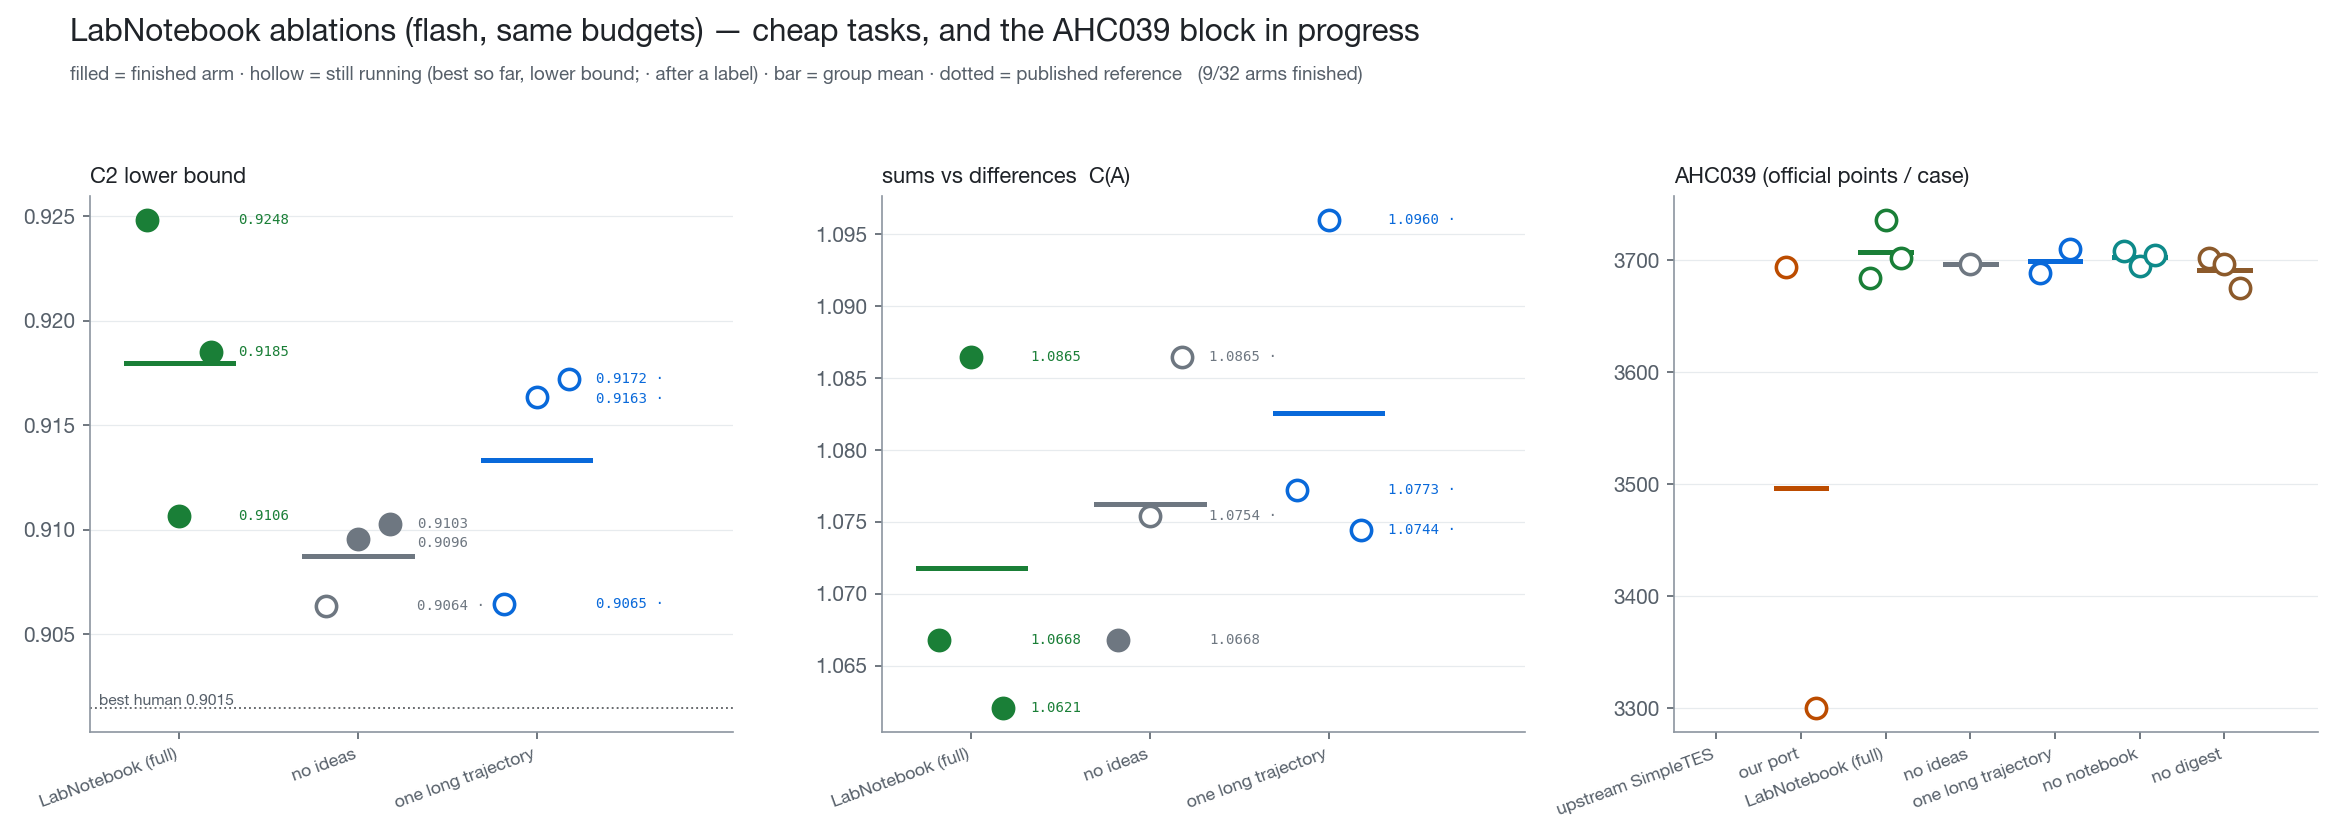
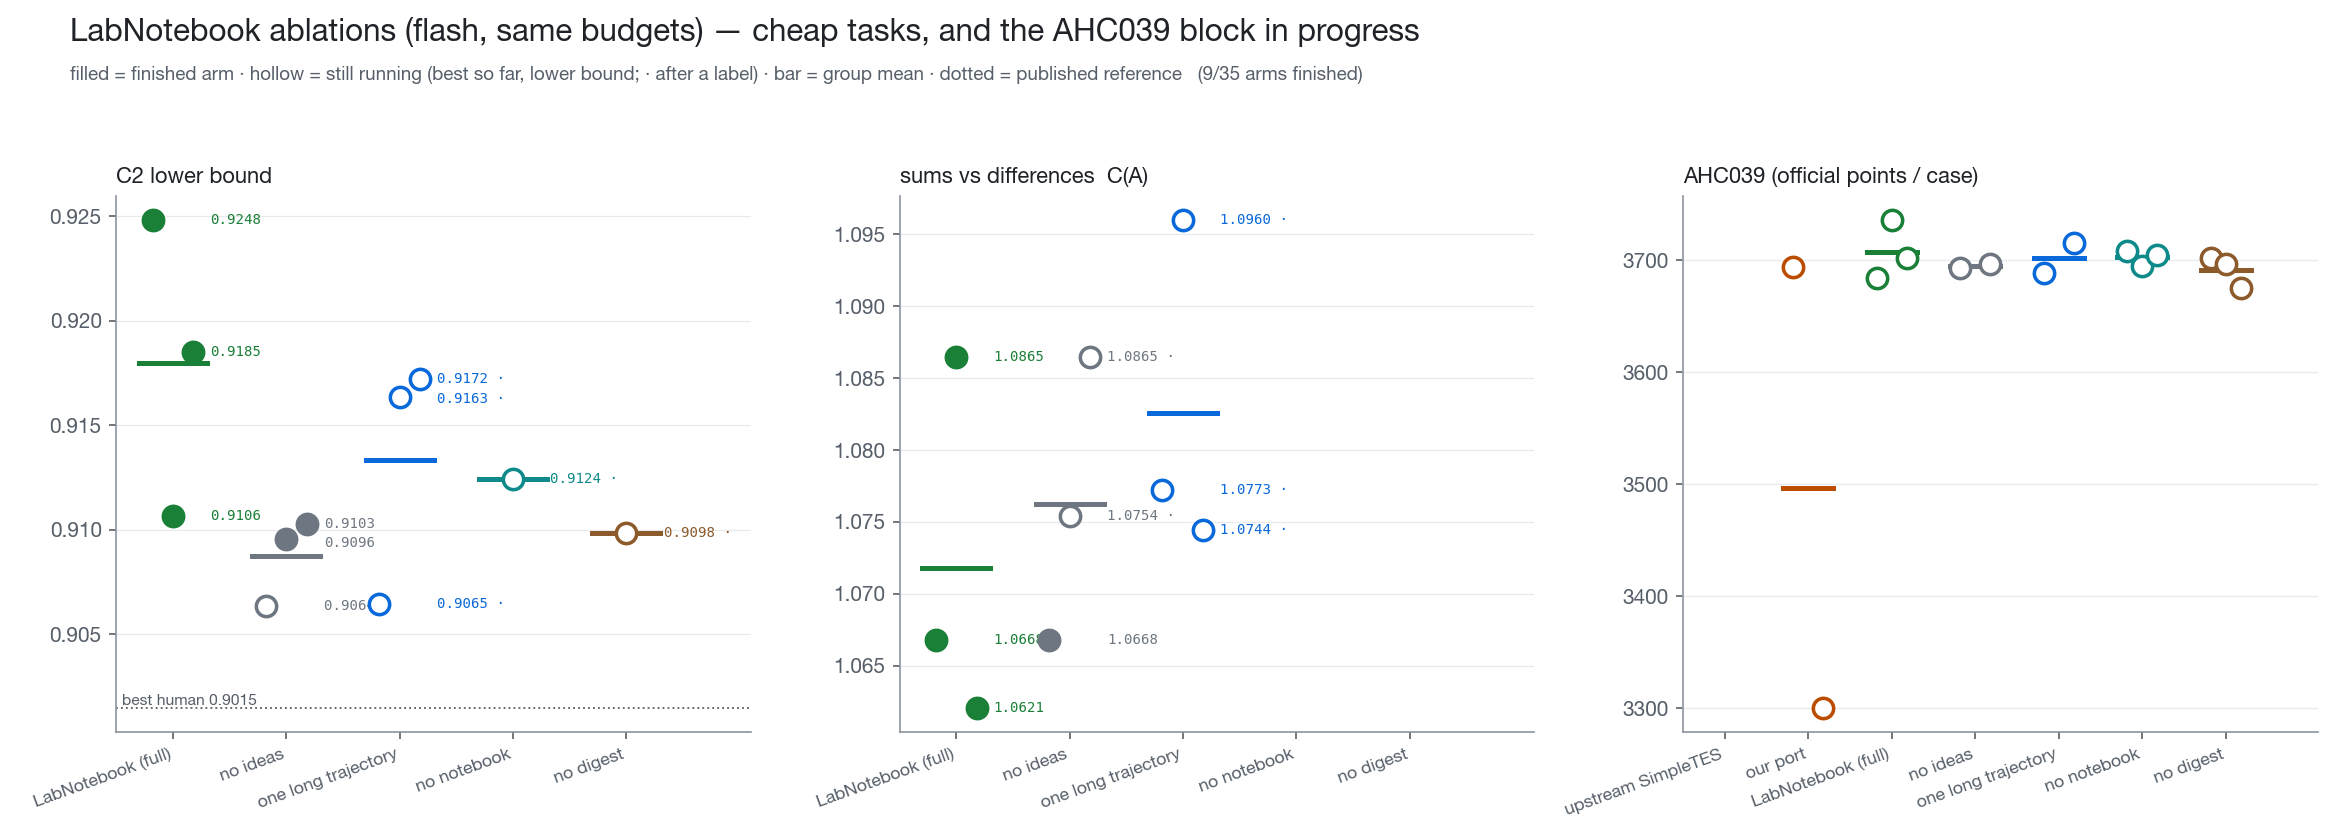
docs(evolution): explain the two upstream configurations and each ablation; refresh the snapshot

diff --git a/examples/evolution_bench/docs/lab_notebook_results.tex b/examples/evolution_bench/docs/lab_notebook_results.tex
@@ -408,35 +408,108 @@ called LabNotebook the cheapest method; that was read from partial arms and is w
 \subsection{Baseline fidelity and ablations (in progress)}
 \label{sec:parts}
 
-Two follow-up studies address the two objections to the comparison above: that our SimpleTES
-is a port, and that nothing yet attributes LabNotebook's results to its design.
+Two follow-up studies address the two objections to the comparison above: that our SimpleTES is
+a port, and that nothing yet attributes LabNotebook's results to its design. Both run in the same
+harness, on the same tasks and budgets as the main campaigns, with \texttt{deepseek-v4-flash}.
 
-\paragraph{Part 1 --- the authors' engine.} The original SimpleTES engine (pinned commit
-\texttt{a19a54b}) runs on our tasks through an adapter: our evaluator, our model, the same
-candidate and token caps, the seed measured once, evaluations on the same eval server for AHC039,
-every request's tokens booked (rejected generations included). Two configurations: a
-\emph{port-mirror} (2 chains, $k{=}2$, 2 inspirations, rpucg, no reflection --- what our port
-ran) and the \emph{authors' defaults} (4 chains, $k{=}4$, 5 inspirations, balance selector,
-reflection on). Tasks: the ones where LabNotebook claimed a win (C2, sums vs differences,
-Heilbronn convex), C1 as a tie control, and AHC039 in the block below.
+\subsubsection*{Part 1 --- is the port a fair SimpleTES?}
 
-\paragraph{Part 2 --- ablations.} Each switch removes exactly one model call of the method:
-\emph{no ideas} (the $K$ parallel short trajectories run with the plain objective --- the
-structure without the steering), \emph{one long trajectory} ($K{=}1$, $T{=}8$, same calls per
-cycle), \emph{no notebook} (no Understand/Update), \emph{no digest} (numbers only in the history).
-On AHC039 --- where the effect to explain is largest --- all of these run as one block of three
-waves, each wave one seed with every method (upstream, fresh LabNotebook, fresh port, four
-ablations) on its own eval server, so within a wave every method sees the same machine and the
-waves are blocked replicates; warm-up evaluation and a 20-minute seed drift probe calibrate the
-three servers.
+The original SimpleTES engine (github.com/wq-will/SimpleTES, pinned at commit \texttt{a19a54b})
+is run unmodified through an adapter that gives it our task's seed program, objective and
+evaluator, our model through the same gateway, and --- for AHC039 --- the same eval server as
+every other arm. Its checkpoint is converted into our summary format, and every request's tokens
+are booked through a hook the adapter installs in the engine's interpreter (rejected generations
+included, which the engine's own checkpoint does not keep).
+
+SimpleTES's search has five knobs, and the study runs the engine under two settings of them:
+
+\begin{center}\small
+\begin{tabular}{@{}>{\raggedright\arraybackslash}p{34mm}>{\raggedright\arraybackslash}p{30mm}>{\raggedright\arraybackslash}p{30mm}>{\raggedright\arraybackslash}p{58mm}@{}}
+\toprule
+knob & \emph{port-mirror} & \emph{authors' defaults} & what it does \\
+\midrule
+chains & 2 & 4 & independent lineages evolved side by side; each keeps its own incumbent \\
+$k$ candidates & 2 & 4 & completions per prompt; the best of the $k$ is committed to the chain \\
+inspirations & 2 & 5 & reference programs shown in the prompt beside the parent \\
+selector & rpucg & balance & the policy that picks those references from the database (rpucg is the engine's UCB-style rule; balance is its default exploitation/exploration mix) \\
+reflection & off & on & an extra model call that writes a short reflection on each batch-best program and feeds it into later prompts \\
+\midrule
+seed evaluation & \multicolumn{2}{l}{once (engine default: 16 repeats, max kept)} & \\
+candidates & \multicolumn{2}{l}{100 (60 on C1), each one request in the engine's streaming mode} & \\
+tokens & \multicolumn{2}{l}{64k output per request; 3.5\,M completion-token cap} & \\
+evaluation & \multicolumn{2}{l}{our evaluator, 300 s; AHC039 on the shared eval server} & \\
+\bottomrule
+\end{tabular}
+\end{center}
+
+\emph{Port-mirror} is the configuration our port ran in the main campaigns (\S\ref{sec:flash}),
+so an upstream arm in this setting differs from a port arm only in the code that implements the
+search: it measures implementation fidelity. \emph{Authors' defaults} is the engine as shipped
+--- wider (4 chains, $k{=}4$), more context (5 inspirations), its default selector, and the
+reflection call our port deliberately omits: it measures whether the settings we chose for the
+port handicapped SimpleTES. If the two upstream settings and the port all land within replicate
+spread of each other, the comparison with LabNotebook stands as measured; if either upstream
+setting is clearly stronger, the honest baseline becomes that setting.
+
+Two accounting facts to keep in view when reading the tokens column: the engine's token cap counts
+completion tokens only, so its arms consume more total tokens than our 3.5\,M prompt+completion
+cap (3.1--6.7\,M on the finished arms); and the engine rejects a reply that drops the
+\texttt{EVOLVE-BLOCK} markers or comes back empty --- with this model that is common (1--60
+rejections per arm so far) and it counts against the candidate budget, as the authors' contract
+intends.
+
+\subsubsection*{Part 2 --- which parts of LabNotebook do the work?}
+
+A full LabNotebook cycle makes these model calls: \call{Propose} ($K{=}4$ ideas), then $K \times
+T = 8$ operator steps (each one request returning $k{=}2$ candidates; the idea rides in every
+step's instruction), then $K = 4$ \call{Digest} calls and one \call{Update} of the notebook; the
+notebook itself comes from one \call{Understand} call at the start. Each ablation removes
+\emph{exactly one} of these and leaves everything else --- budgets, operator, parent selection,
+references --- unchanged:
+
+\begin{center}\small
+\begin{tabular}{@{}>{\raggedright\arraybackslash}p{26mm}>{\raggedright\arraybackslash}p{50mm}>{\raggedright\arraybackslash}p{30mm}>{\raggedright\arraybackslash}p{46mm}@{}}
+\toprule
+variant & what changes & calls per cycle & what it tests \\
+\midrule
+full & --- & 1 + 8 + 4 + 1 & the reference \\
+no ideas & \call{Propose} is skipped; the $K$ trajectories run with the plain objective as
+  instruction (exactly what the port sends); digests and notebook still run & 0 + 8 + 4 + 1 &
+  whether the gain comes from steering by explicit ideas, or merely from the parallel-short-trajectory
+  structure \\
+one long trajectory & $K{=}1$, $T{=}8$: one idea, one trajectory of eight chained steps, still
+  16 candidates per cycle; fewer outer calls, so $\sim$40\% more cycles per budget & 1 + 8 + 1 + 1 &
+  breadth (four shallow probes) against depth (one deep pursuit) --- the trajectory-length hypothesis \\
+no notebook & \call{Understand} and \call{Update} are skipped; \call{Propose} sees the problem, the
+  history table (numbers and digests) and the parent program, but no accumulated prose understanding &
+  1 + 8 + 4 + 0 & whether the rewritten understanding improves idea quality beyond the raw record \\
+no digest & \call{Digest} is skipped; history rows keep the numbers (idea, predicted and measured
+  gain, candidates) but no outcome/why/lesson; the notebook update sees numbers only & 1 + 8 + 0 + 1 &
+  whether the model's written interpretation of each experiment matters, or the numbers suffice \\
+\bottomrule
+\end{tabular}
+\end{center}
+
+Two further variants are implemented but not yet run: \emph{generic ideas} (a fixed list sampled
+per cycle, no model call --- diversity without judgement) and $k$-vs-$T$ trade-offs.
+
+The ablations run on the two cheap tasks where LabNotebook led (C2, sums vs differences) and on
+AHC039, where the effect to explain is largest (40 points in the pro campaign). On AHC039 all
+variants run as one block of three waves, each wave one seed with every method --- the authors'
+engine, a fresh LabNotebook, a fresh port, and the four ablations --- on its own eval server, so
+within a wave every method sees the same machine and load, and the waves are blocked replicates;
+warm-up evaluation and a 20-minute seed drift probe calibrate the three servers. Reading rule: a
+variant's effect is its difference from the full method on the same task; on the cheap tasks
+differences inside the replicate spread ($\sim$0.01) are inconclusive, on AHC039 the bar is
+$\sim$20 points, the seed's own machine noise.
 
 \begin{table}[H]\centering\small
-\caption{Part 1 snapshot (2026-09-08 16:30 PDT): best per arm (s0 / s1 / s2) and mean. Dashes are
+\caption{Part 1 snapshot (2026-09-08 16:20 PDT): best per arm (s0 / s1 / s2) and mean. Dashes are
 arms still running; the upstream engine keeps no partial results.}
 \label{tab:part1}
 \begin{tabular}{@{}lrrrr@{}}
 \toprule
-\multicolumn{5}{@{}l}{\textbf{$C_2$} (↑)} \\
+\multicolumn{5}{@{}l}{\textbf{$C_2$} (higher is better)} \\
 group & s0 & s1 & s2 & mean \\
 \midrule
 LabNotebook & 0.9248 & 0.9106 & 0.9185 & 0.9180 \\
@@ -444,21 +517,21 @@ our SimpleTES port & 0.9101 & 0.9079 & 0.9139 & 0.9106 \\
 upstream, port-mirror & 0.9269 & --- & --- & 0.9269 \\
 upstream, authors' defaults & 0.9120 & --- & --- & 0.9120 \\
 \midrule
-\multicolumn{5}{@{}l}{\textbf{sums vs differences} (↑)} \\
+\multicolumn{5}{@{}l}{\textbf{sums vs differences} (higher is better)} \\
 \midrule
 LabNotebook & 1.0668 & 1.0865 & 1.0621 & 1.0718 \\
 our SimpleTES port & 1.0668 & 1.0677 & 1.0621 & 1.0655 \\
 upstream, port-mirror & --- & --- & --- & --- \\
 upstream, authors' defaults & 1.0668 & --- & --- & 1.0668 \\
 \midrule
-\multicolumn{5}{@{}l}{\textbf{Heilbronn convex $n{=}13$} (ratio, ↑)} \\
+\multicolumn{5}{@{}l}{\textbf{Heilbronn convex $n{=}13$} (ratio, higher is better)} \\
 \midrule
 LabNotebook & 0.8520 & 1.0000 & 0.8905 & 0.9142 \\
 our SimpleTES port & 0.9158 & 0.8676 & 0.8833 & 0.8889 \\
 upstream, port-mirror & 0.8877 & --- & --- & 0.8877 \\
 upstream, authors' defaults & 0.8554 & --- & --- & 0.8554 \\
 \midrule
-\multicolumn{5}{@{}l}{\textbf{$C_1$ control} (↓)} \\
+\multicolumn{5}{@{}l}{\textbf{$C_1$ control} (lower is better)} \\
 \midrule
 LabNotebook & 1.51063 & 1.51267 & 1.50947 & 1.51093 \\
 our SimpleTES port & 1.50941 & 1.51148 & 1.51088 & 1.51059 \\
@@ -480,25 +553,29 @@ AHC039 arms are a few hours into $\sim$14; their bests are not yet informative.}
 \label{tab:part2}
 \begin{tabular}{@{}lrrrr@{}}
 \toprule
-\multicolumn{5}{@{}l}{\textbf{$C_2$} (↑)} \\
+\multicolumn{5}{@{}l}{\textbf{$C_2$} (higher is better)} \\
 group & s0 & s1 & s2 & mean \\
 \midrule
 LabNotebook (full) & 0.9248 & 0.9106 & 0.9185 & 0.9180 \\
 no ideas & 0.9064$^\circ$ & 0.9096 & 0.9103 & 0.9087 \\
 one long trajectory & 0.9065$^\circ$ & 0.9163$^\circ$ & 0.9172$^\circ$ & 0.9133 \\
+no notebook & 0.9124$^\circ$ & --- & --- & 0.9124 \\
+no digest & 0.9098$^\circ$ & --- & --- & 0.9098 \\
 \midrule
-\multicolumn{5}{@{}l}{\textbf{sums vs differences} (↑)} \\
+\multicolumn{5}{@{}l}{\textbf{sums vs differences} (higher is better)} \\
 \midrule
 LabNotebook (full) & 1.0668 & 1.0865 & 1.0621 & 1.0718 \\
 no ideas & 1.0668 & 1.0754$^\circ$ & 1.0865$^\circ$ & 1.0762 \\
 one long trajectory & 1.0773$^\circ$ & 1.0960$^\circ$ & 1.0744$^\circ$ & 1.0825 \\
+no notebook & --- & --- & --- & --- \\
+no digest & --- & --- & --- & --- \\
 \midrule
 \multicolumn{5}{@{}l}{\textbf{AHC039 block} (official points; all arms running)} \\
 \midrule
 LabNotebook (full) & 3684$^\circ$ & 3736$^\circ$ & 3702$^\circ$ & 3707 \\
 our port & 3694$^\circ$ & 3301$^\circ$ & --- & --- \\
-no ideas & 3697$^\circ$ & --- & --- & --- \\
-one long trajectory & 3689$^\circ$ & 3710$^\circ$ & --- & --- \\
+no ideas & 3693$^\circ$ & 3697$^\circ$ & --- & 3695 \\
+one long trajectory & 3689$^\circ$ & 3716$^\circ$ & --- & 3702 \\
 no notebook & 3708$^\circ$ & 3695$^\circ$ & 3705$^\circ$ & 3703 \\
 no digest & 3702$^\circ$ & 3697$^\circ$ & 3675$^\circ$ & 3691 \\
 \bottomrule
@@ -509,7 +586,8 @@ no digest & 3702$^\circ$ & 3697$^\circ$ & 3675$^\circ$ & 3691 \\
 \includegraphics[width=\textwidth]{lab_notebook_figs/part2_ablations.png}
 \caption{Part 2 snapshot. Removing the ideas holds C2 at the seed where the full method moved;
 on sums vs differences it does not hurt, and the single long trajectory is the best variant so
-far. The AHC039 block, where the effect to explain is largest, is a few hours in.}
+far. The no-notebook and no-digest arms on the cheap tasks have just started; the AHC039 block,
+where the effect to explain is largest, is a few hours in.}
 \end{figure}
 
 \subsection{Reading the results}
